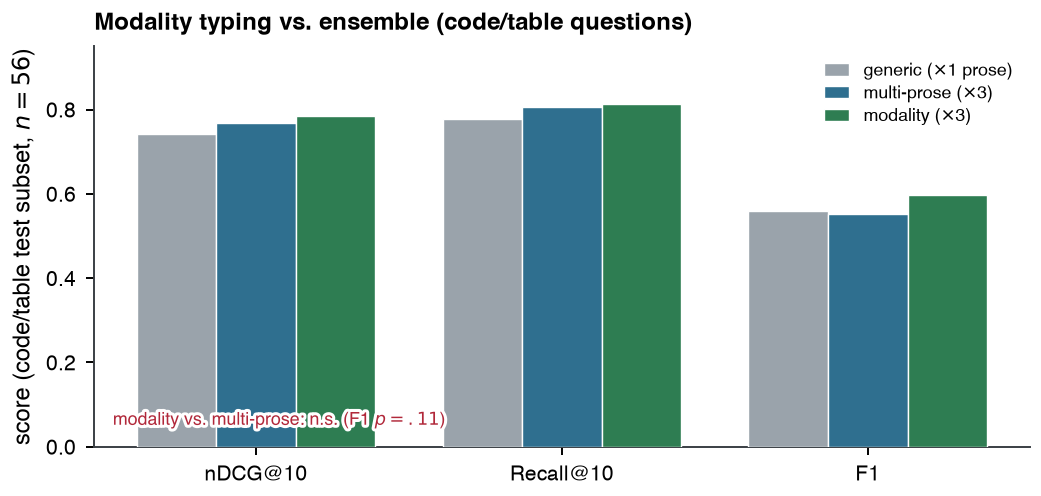
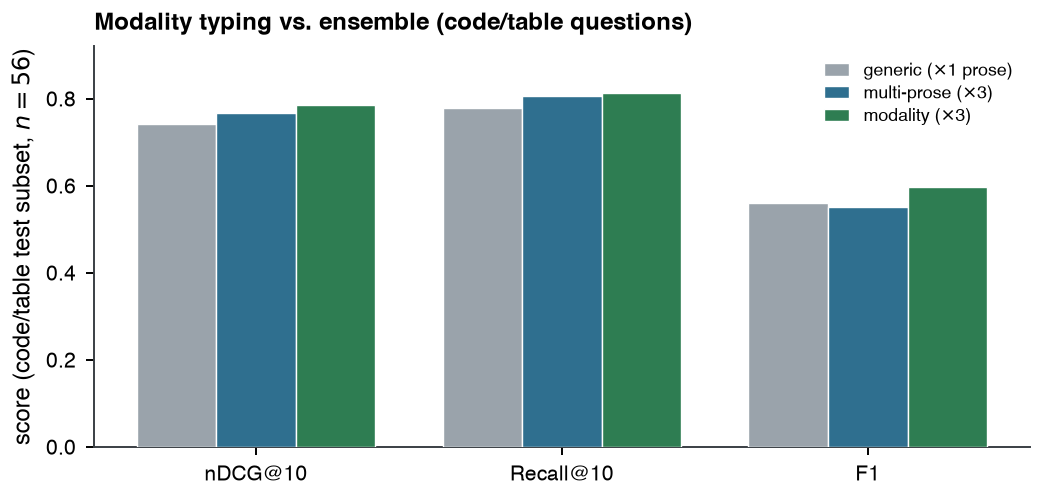
paper(fig): A3 -- drop on-plot stat annotation; data+legend only (stats to caption)

diff --git a/paper/make_figures.py b/paper/make_figures.py
@@ -261,11 +261,9 @@ def fig_mahyde_control() -> None:
                zorder=3)
     ax.set_xticks(x)
     ax.set_xticklabels(metrics)
-    ax.set_ylim(0, 0.95)
+    ax.set_ylim(0, 0.92)
     ax.set_ylabel("score (code/table test subset, $n{=}56$)")
     ax.legend(loc="upper right", fontsize=6.4)
-    fs.halo(ax.text(0.02, 0.045, "modality vs. multi-prose: n.s. (F1 $p{=}.11$)",
-            transform=ax.transAxes, fontsize=6.4, ha="left", va="bottom", color=fs.ACCENT))
     ax.set_title("Modality typing vs. ensemble (code/table questions)", loc="left")
     fig.tight_layout()
     fs.save(fig, "A_mahyde_control")